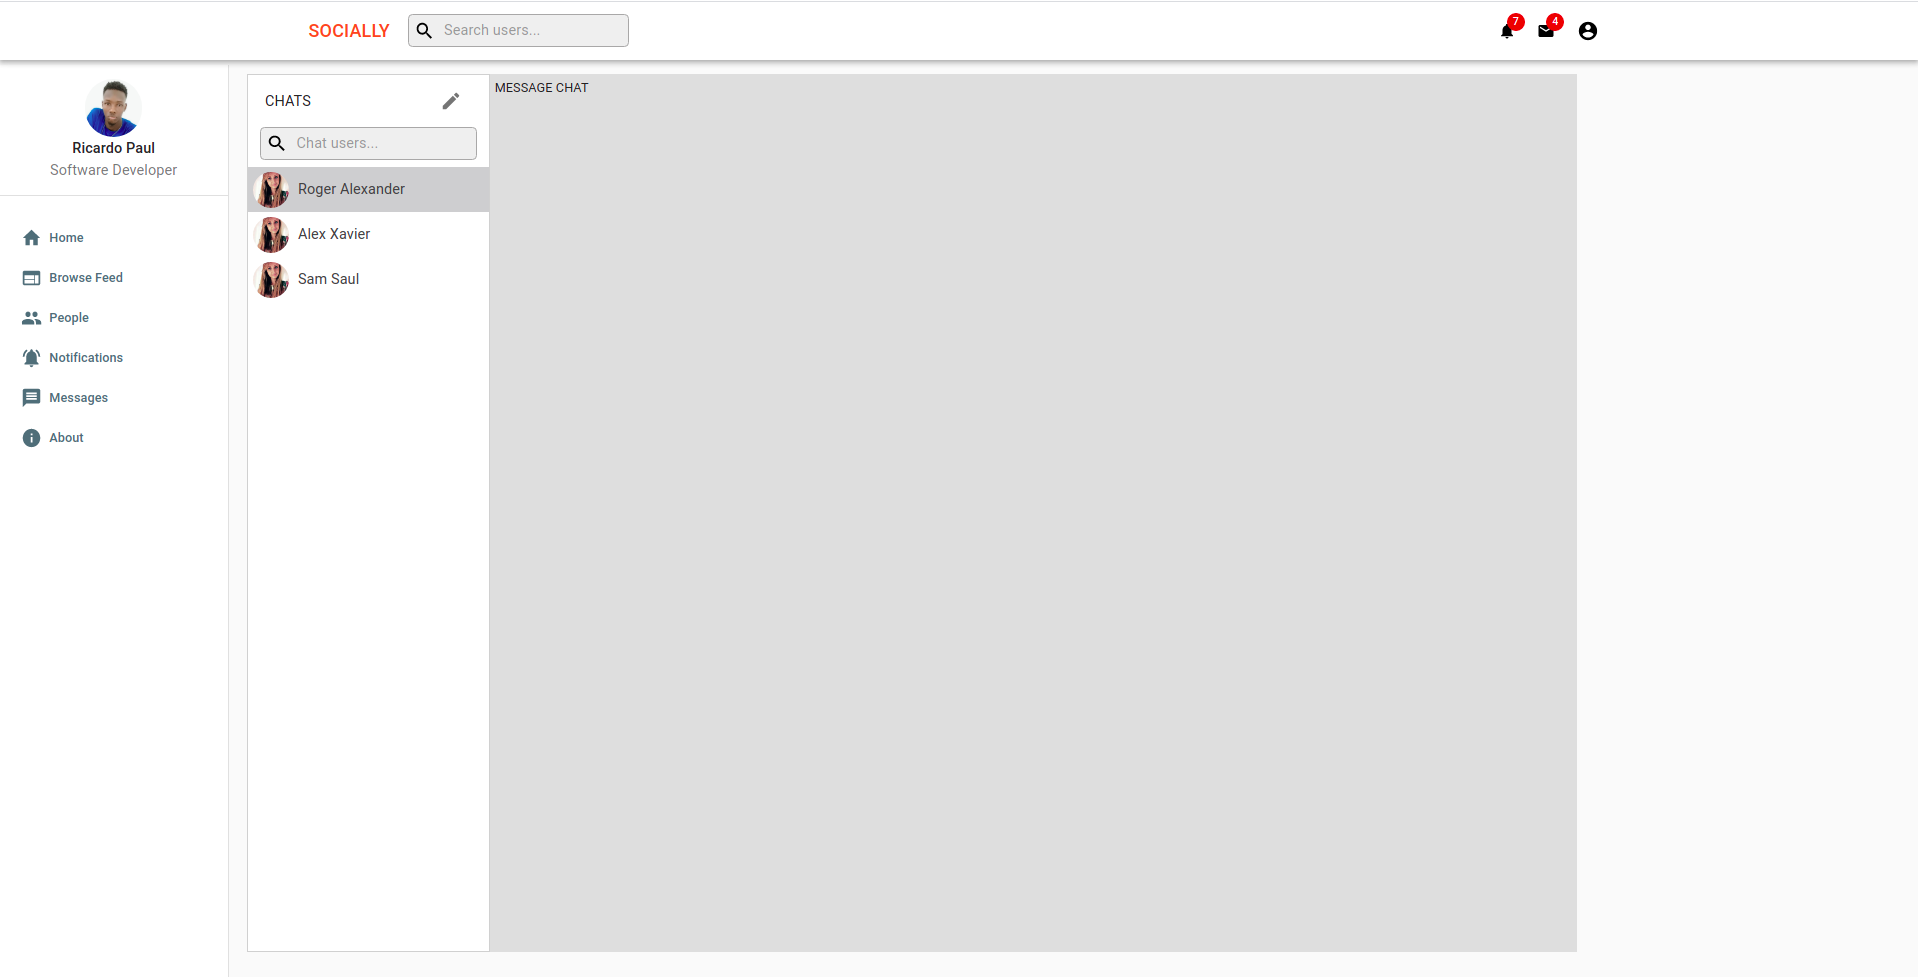
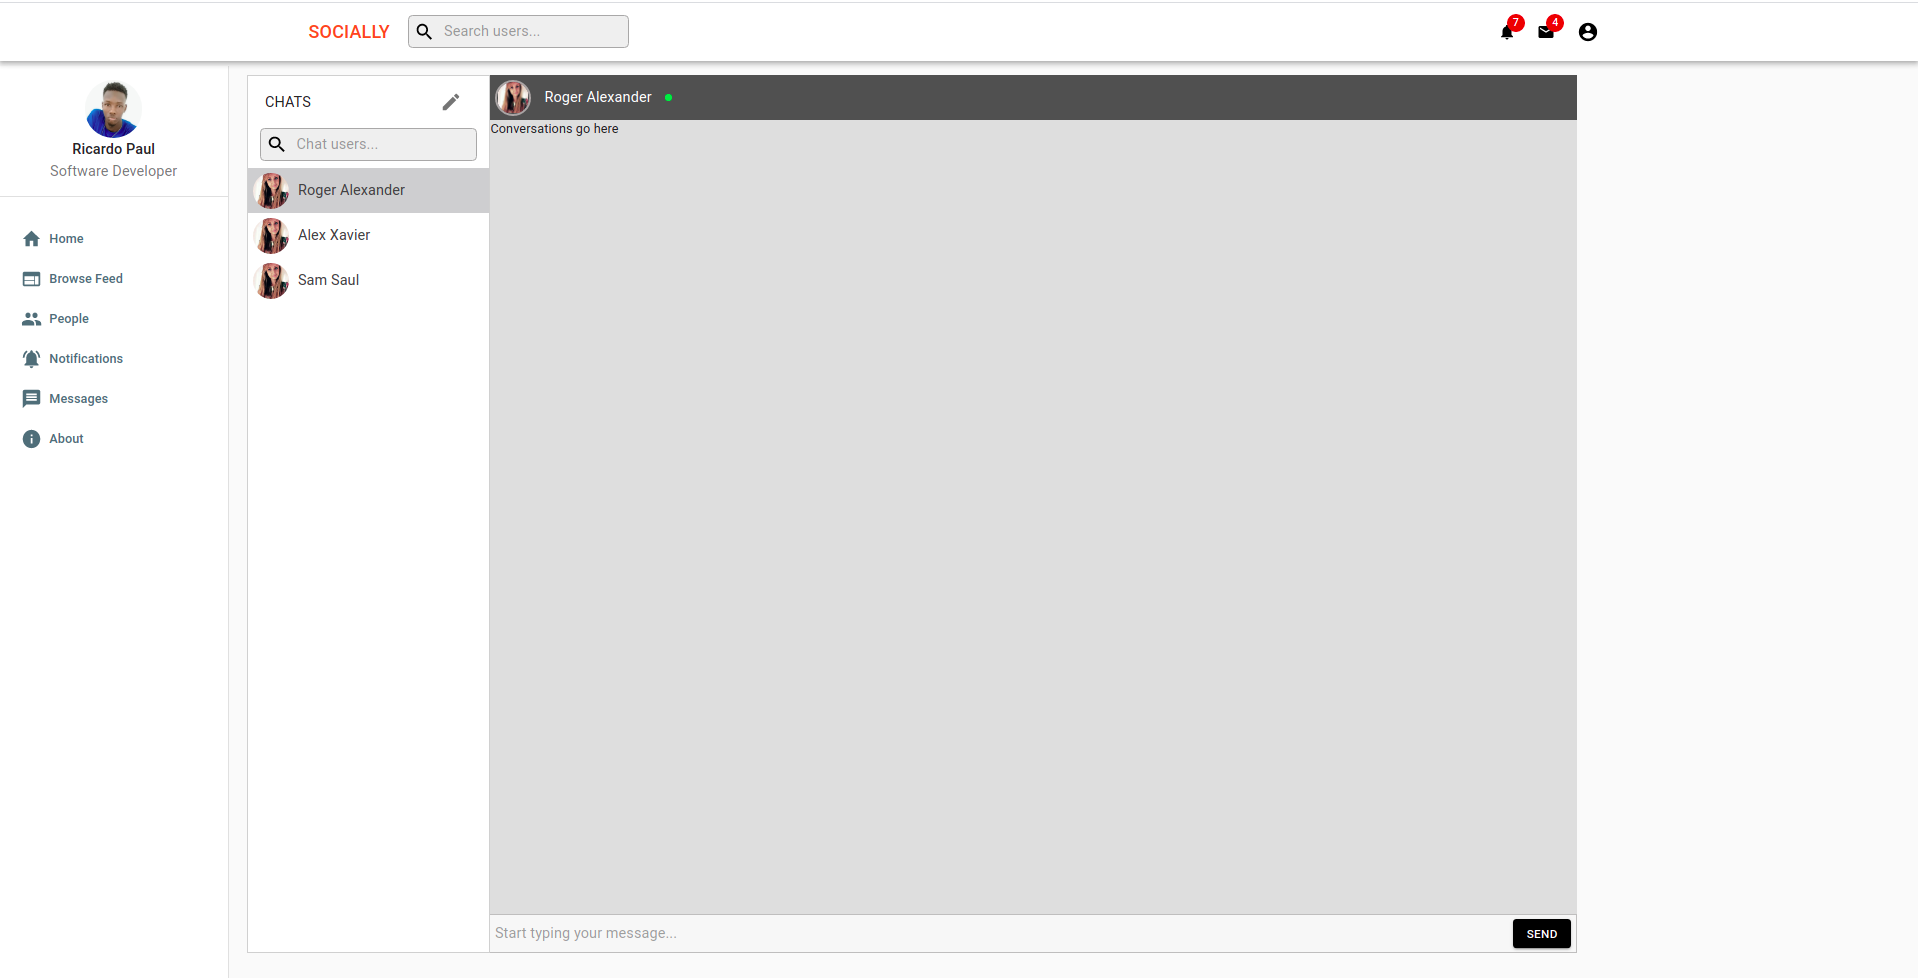
add screenshot

diff --git a/client/src/pages/Message/ChatConversations.js b/client/src/pages/Message/ChatConversations.js
@@ -28,7 +28,7 @@ const ChatConversations = () => {
     return(
         <Box className={classes.container}>
             <Box className={classes.conversation}>
-                conversation
+                Conversations go here
             </Box>
             <Box className={classes.submit}>
                     <InputBase 
